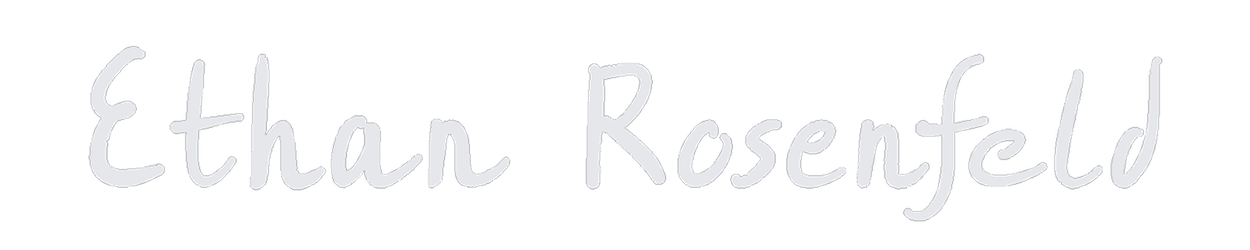
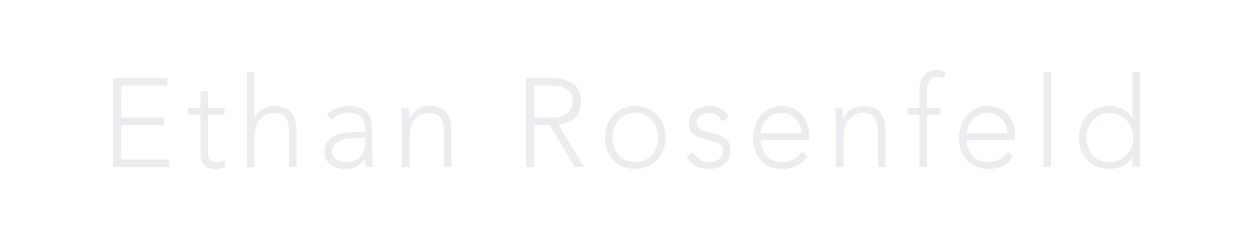
Fix typo, update name and spacing

Changed region(s): [[0.468, 0.224, 0.936, 0.896], [0.0624, 0.196, 0.4056, 0.756]]

diff --git a/global.css b/global.css
@@ -12,7 +12,7 @@ body {
                "Segoe UI", Roboto, Helvetica, Arial, sans-serif;
   margin: 0;
   font-weight: 300;
-  letter-spacing: 0.01em;
+  letter-spacing: 0.02em;
   overflow-x: hidden;
 }
 
@@ -26,6 +26,7 @@ body {
   box-sizing: border-box;
   align-items: center;
   background-color: var(--background);
+  letter-spacing: 0.04em;
 }
 
 .navbar-logo {
@@ -44,7 +45,7 @@ body {
 .navbar-item {
   opacity: 1;
   position: relative;
-  height: 30px;
+  height: 24px;
   float: left;
   margin-left: calc(2.5%);
   color: var(--secondary);
@@ -73,7 +74,7 @@ body {
 
 .navbar-toggle {
   opacity: 0;
-  width: 36px; height: 26px;
+  width: 36px; height: 30px;
   position: absolute;
   right: -26px;
   transition: all 0.4s ease;

diff --git a/index.html b/index.html
@@ -77,7 +77,7 @@
                 <p>
                     Hello, my name is Ethan Rosenfeld. I'm an instrument-rated private pilot studying
                     Mechanical Engineering and Physics with an Aerospace Certificate at Duke
-                    University, expeting to graduate in 2029. I currently work on liquid and solid
+                    University, expecting to graduate in 2029. I currently work on liquid and solid
                     propulsion for DukeAERO and develop interactive software in Julia and JavaScript.
                 </p>
             </div>
